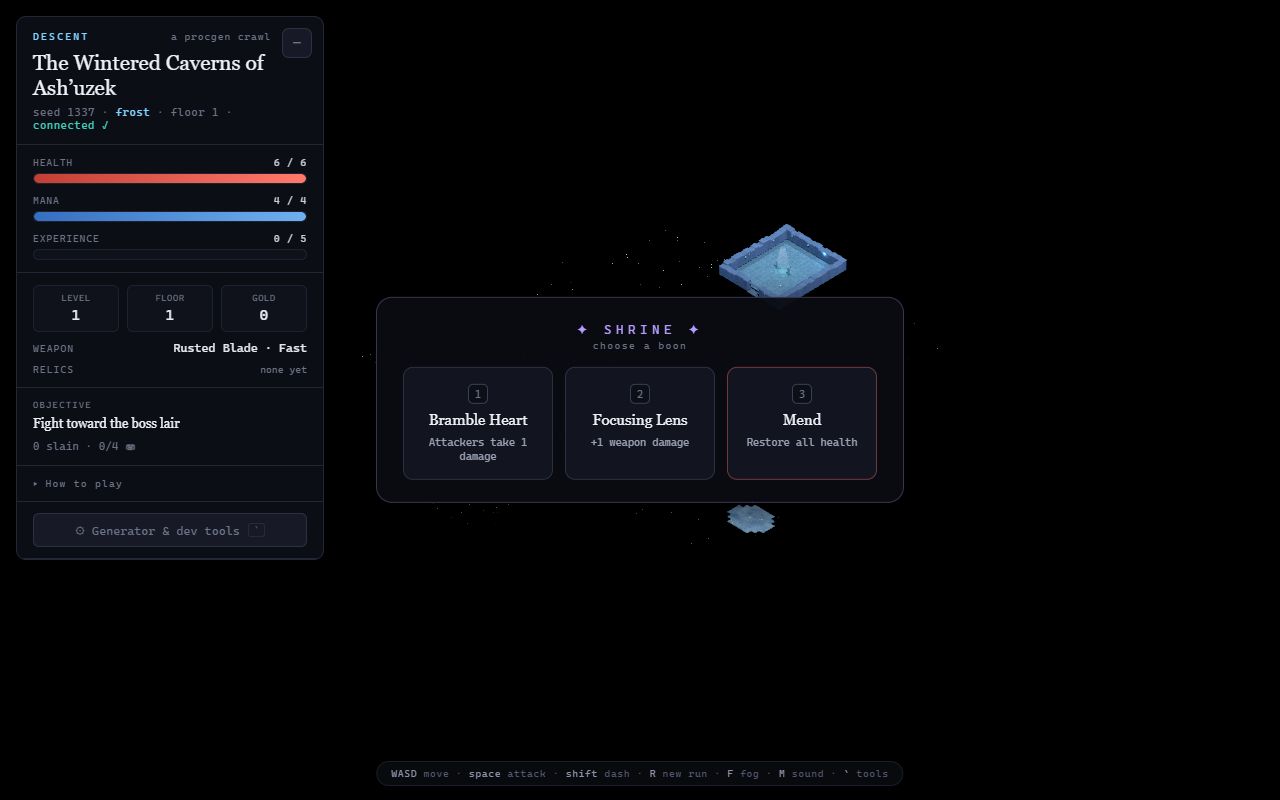
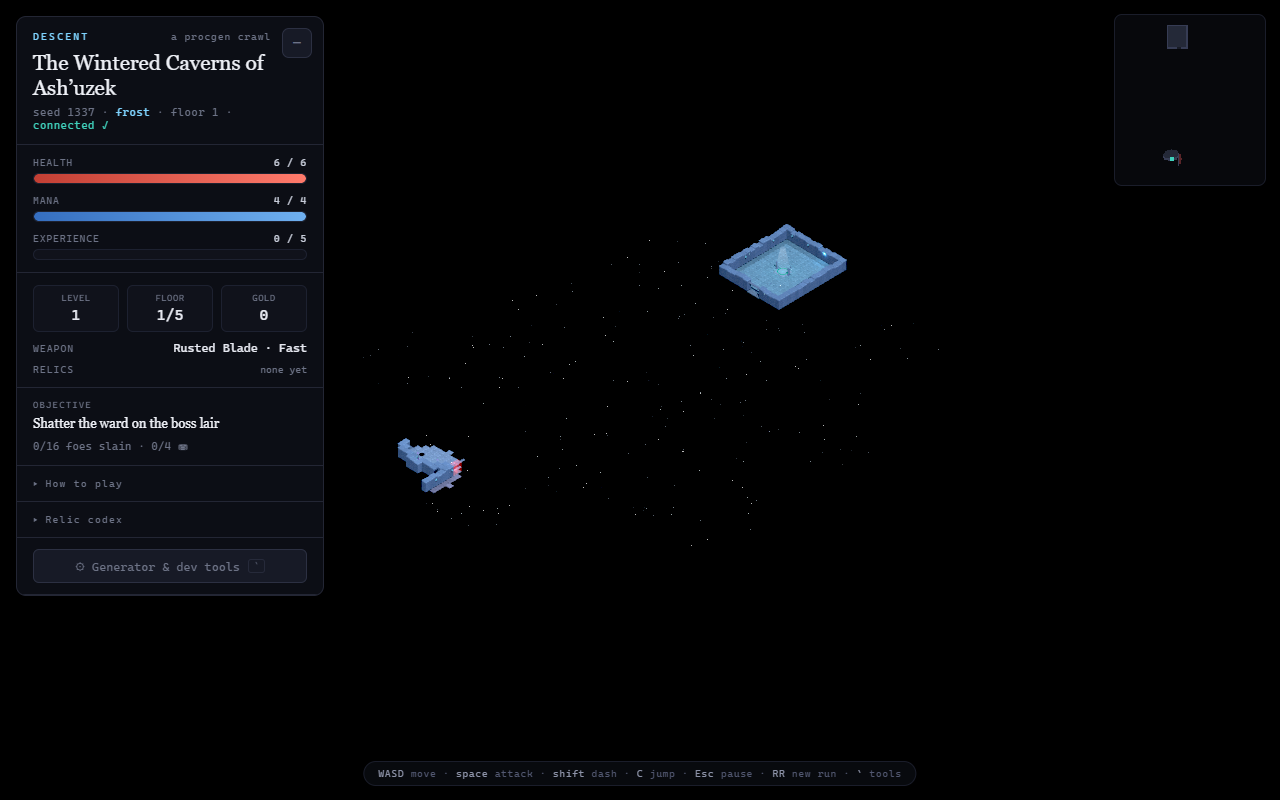
Update README for Descent 2.1
Documents the five-floor run, warded lairs, hazards, parkour, shop, and all
2.x controls; fresh screenshot with the minimap; notes the protected
v1-foundation branch layout.

diff --git a/README.md b/README.md
@@ -1,10 +1,12 @@
 # ⚔ Descent
 
-**A floor-diving action roguelite built on top of [Dungeon Forge](#-credits) — a deterministic procedural dungeon generator.**
+**A five-floor action roguelite built on top of [Dungeon Forge](#-credits) — a deterministic procedural dungeon generator.**
 
-Every floor is a freshly generated dungeon. Explore through the fog, fight from the entrance to the boss lair with weapons that feel different and a dodge-dash that grants brief invulnerability, spend the boons you find at shrines, best a multi-phase boss, and step into the portal to descend deeper — harder each time. Die and the run is over. Rendered live with [Three.js](https://threejs.org/); every sound effect is synthesized at runtime; nothing is loaded from disk.
+Every floor is a freshly generated dungeon with its own name and theme. Fight through the fog toward a warded boss lair — the seal only shatters once you've slain enough of the floor's foes — fell the boss, spend your gold at the Wayshop inside the portal, and descend. Five floors down, the **Tyrant of the Depths** waits. Die anywhere along the way and the run is over.
 
-![Descent — the character sheet, a shrine boon choice, and a generated frost dungeon](docs/descent.png)
+Rendered live with [Three.js](https://threejs.org/); every sound effect is synthesized at runtime; nothing is loaded from disk.
+
+![Descent — character sheet, fog-of-war minimap, and a warded frost dungeon](docs/descent.png)
 
 ---
 
@@ -15,7 +17,7 @@ npm install
 npm run dev        # then open http://localhost:5173
 ```
 
-Let the dungeon build itself (or press **Space** to skip the animation), then **WASD** to move. Press **`` ` ``** any time to open the generator / dev drawer.
+Let the dungeon build itself (or press **Space** to skip the animation), then **WASD** to move. Press **`` ` ``** any time for the generator / dev drawer.
 
 Other scripts:
 
@@ -30,36 +32,45 @@ npm run demo:headless  # pure-Node generator demo + determinism/regression check
 | Action | Key |
 | --- | --- |
 | Move | **W A S D** |
-| Attack | **Space** |
-| Dash / dodge (spends mana, brief i-frames) | **Shift** |
-| Choose a shrine boon | **1 · 2 · 3** |
-| New run | **R** |
-| Toggle fog / sound | **F** / **M** |
+| Attack *(wand: 1 mana, seeks the nearest foe)* | **Space** |
+| Dash — dodge with brief invulnerability (1 mana) | **Shift** |
+| Jump — clears pits and parkour blocks | **C** |
+| Choose a shrine boon / shop item | **1 – 4** |
+| Descend from the Wayshop | **Enter** |
+| Pause | **Esc** |
+| Abandon run (press twice) | **R R** |
+| Lift the fog *(requires the Scrying Orb relic)* | **F** |
+| Sound | **M** |
 | Pan · zoom · orbit camera | drag · wheel · right-drag |
 | Generator & dev tools | **`` ` ``** |
 
-## ✨ Features
+## ✨ The game
 
-- **Endless, deterministic floors.** Each floor is a generated dungeon with its own name and theme; per-floor seeds are derived from the run seed, so a whole run is reproducible.
-- **Fog of war** — permanent reveal-on-explore, room and corridor based.
-- **Three weapons with distinct feel** — a fast blade, a heavy knockback hammer, and a ranged mana-fueled wand (with projectiles).
-- **Dash** with invulnerability frames that dodge both blows and bolts.
-- **Three enemy archetypes** — grunts that swarm, casters that kite and snipe, chargers that telegraph then dash — plus a **multi-phase boss with a health bar** (stalk → ranged volleys → radial bursts).
-- **Progression** — descend through the boss portal carrying your character; difficulty scales with depth; death ends the run and shows a summary.
-- **Relics & interactive shrines** — 8 stacking passive boons (lifesteal, thorns, +damage, faster dash, and more), chosen at shrines built into the generator's shrine rooms.
-- **Character-sheet HUD** — health, mana, XP/level, gold, weapon, relics, and a live objective. The generator's controls live one keystroke away in a dev drawer.
-- **Procedural audio** — every sound is built from oscillators and filtered noise via the Web Audio API at runtime; no audio files.
+- **A run is five floors.** Each is a deterministic, generated dungeon (per-floor seeds derive from the run seed). Difficulty, enemy count, and hazard density scale with depth. Floor five holds a towering, minion-summoning **mega boss** — fell it and the depths are conquered.
+- **Warded boss lairs.** No b-lining: rune barriers seal every lair entrance until half the floor's foes are slain.
+- **Three enemy archetypes**, each with its own silhouette and habits: horned **grunts** swarm, hooded **casters** hover and snipe, ram-headed **chargers** telegraph then dash. Bosses fight in three escalating phases (stalk → volleys → radial bursts) under a boss HP bar.
+- **A dungeon that fights back.** Self-concealing spike traps skewer players *and* enemies; pits swallow the careless; and every theme has its own menace — rune snares (ancient), fire vents (molten), falling icicles (frost), mana-drinking wisps (grim), spore pods (verdant). Frozen lakes are treacherously slick.
+- **Parkour rooms.** Well-connected junction rooms are fitted with bar-block courses — jump the gaps (or land on top and walk the beams) to claim a vaulter's gold prize.
+- **Weapons & relics.** Find the fast blade, heavy hammer, or mana-fueled wand; attune up to nine stacking relics at shrines (lifesteal, thorns, +damage, faster dash, the fog-lifting Scrying Orb…). A relic codex in the panel tracks what everything does.
+- **The Wayshop.** The descent portal opens a between-floors shop: mend, +max health, +damage, or gamble on a mystery relic.
+- **Juice.** Fog-of-war pixel minimap, floating damage numbers, 10% critical hits, combo-kill gold multipliers, heart drops, mimic chests (1 in 5 bites), dash trails, boss intro splashes, and a low-HP heartbeat you'll learn to dread.
+- **Procedural audio.** Every sound — swings, crits, heartbeats, fanfares — is built from oscillators and filtered noise via the Web Audio API at runtime. No audio files.
 
 ## 🗂 Project layout
 
-- **`src/gen/dungeon.js`** — the procedural generator, extracted as a **pure, engine-agnostic module** (zero imports, runs in plain Node). This is the reusable core: scatter → separate → Delaunay → MST + loops → semantics → carve → decorate, all threaded through one seeded PRNG.
-- **`src/game/*.js`** — the game systems layered on top: `state` (run/character), `player`, `enemies`, `loot`, `shrines`, `relics`, `weapons`, `fog`, `audio`.
-- **`src/main.js`** — the Three.js renderer, post-processing, and the game loop that wires it all together.
+- **`src/gen/dungeon.js`** — the procedural generator, a **pure, engine-agnostic module** (zero imports, runs in plain Node): scatter → separate → Delaunay → MST + loops → semantics → carve → decorate, all threaded through one seeded PRNG. This is the reusable core for future games.
+- **`src/game/*.js`** — the game systems layered on top: `state` (run/character), `player` (move/dash/jump), `enemies` (archetypes, bosses, projectiles), `weapons`, `relics`, `loot`, `shrines`, `shop`, `seal` (boss ward), `hazards` (traps/pits/theme hazards), `parkour`, `fog`, `audio`.
+- **`src/main.js`** — the Three.js renderer, post-processing, minimap, and the game loop that wires it all together.
 - **`scripts/headless-demo.js`** — a pure-Node demo that prints an ASCII map and asserts determinism + pinned regression values (`npm run demo:headless`).
+
+## 🌱 Branches
+
+- **`main` / `v1-foundation` / tag `v1.0-foundation`** — the protected v1 foundation: generator + core roguelite loop, kept pristine as a base for future games.
+- **`descent-2`** — the current game described above.
 
 ## 🙏 Credits
 
-Built on **Dungeon Forge** by **[@majidmanzarpour](https://github.com/majidmanzarpour)** ([live demo](https://procedural-dungeon.netlify.app)) — the deterministic procedural dungeon generator and its painterly Three.js renderer, themes, props, liquids, lights, and particles are his work. Descent adds the game on top: player, combat, enemies, progression, relics, shrines, UI, and audio.
+Built on **Dungeon Forge** by **[@majidmanzarpour](https://github.com/majidmanzarpour)** ([live demo](https://procedural-dungeon.netlify.app)) — the deterministic procedural dungeon generator and its painterly Three.js renderer, themes, props, liquids, lights, and particles are his work. Descent adds the game on top: player, combat, enemies, progression, hazards, shops, relics, UI, and audio.
 
 ## 📄 License
 
